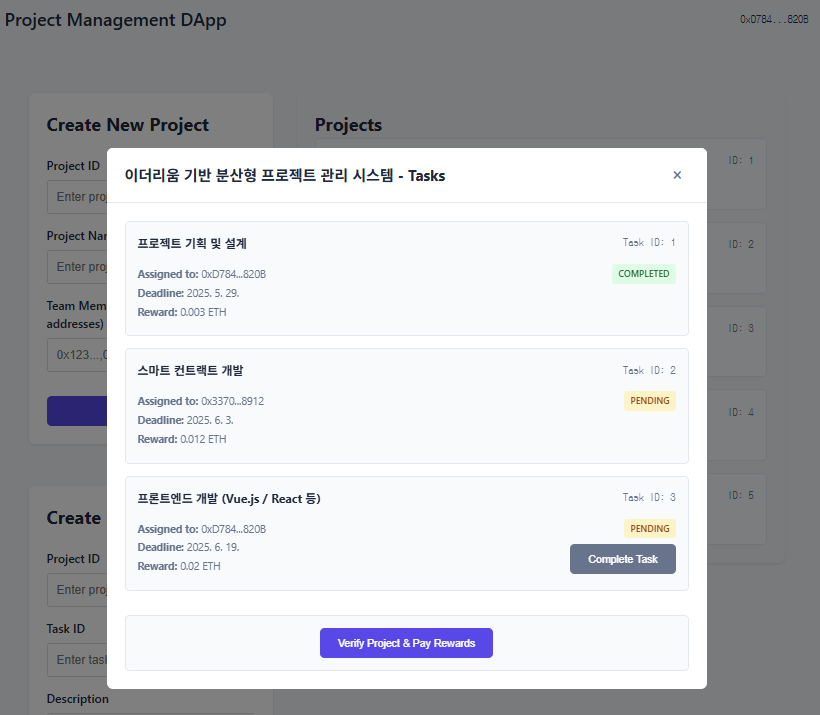
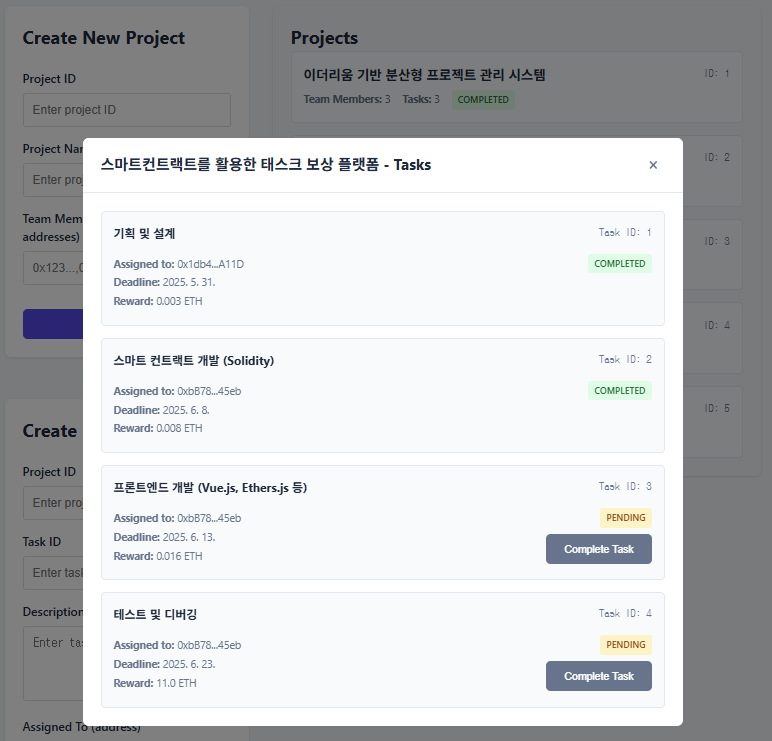
fix: restrict admin-only buttons to admin users

diff --git a/src/components/TaskList.vue b/src/components/TaskList.vue
@@ -58,6 +58,7 @@ const isLoading = ref(true);
 const isCompleting = ref(false);
 const isVerifying = ref(false);
 const projectInfo = ref(null);
+const isAdmin = ref(false);
 
 const shortAddress = (addr) => {
   if (!addr) return '';
@@ -69,42 +70,42 @@ const formatDate = (timestamp) => {
 };
 
 const formatEther = (wei) => {
-  return ethers.utils.formatEther(wei);
+  try {
+    return ethers.utils.formatEther(wei || 0);
+  } catch (e) {
+    console.error("Error formatting ether value:", wei, e);
+    return 'N/A';
+  }
 };
 
-const canVerifyProject = computed(async () => {
-  if (!tasks.value.length) return false;
-  
-  try {
-    const provider = new ethers.providers.Web3Provider(window.ethereum);
-    const signer = provider.getSigner();
-    const contract = new ethers.Contract(CONTRACT_ADDRESS, CONTRACT_ABI, signer);
-    const address = await signer.getAddress();
-    
-    const admin = await contract.admin();
-    const isAdmin = admin.toLowerCase() === address.toLowerCase();
-    
-    // Get project info to check completion status
-    const projectInfo = await contract.getProjectInfo(props.projectId);
-    if (projectInfo.isCompleted) {
-      return false;  // Don't show verify button if project is already completed
-    }
-    
-    return isAdmin && tasks.value.every(task => task.completed);
-  } catch (error) {
-    console.error('Error checking verify permission:', error);
-    return false;
-  }
+const canVerifyProject = computed(() => {
+  const result = isAdmin.value 
+         && tasks.value.every(task => task.completed) 
+         && (projectInfo.value ? !projectInfo.value.isCompleted : false);
+         
+  console.log('canVerifyProject Computed:', {
+    isAdmin: isAdmin.value,
+    allTasksCompleted: tasks.value.every(task => task.completed),
+    projectNotCompleted: projectInfo.value ? !projectInfo.value.isCompleted : 'Project Info not loaded',
+    finalResult: result
+  });
+
+  return result;
 });
 
 const loadProjectInfo = async (contract) => {
-  const info = await contract.getProjectInfo(props.projectId);
-  projectInfo.value = {
-    name: info.name,
-    teamSize: info.teamSize.toNumber(),
-    taskCount: info.taskCount.toNumber(),
-    isCompleted: info.isCompleted
-  };
+  try {
+    const info = await contract.getProjectInfo(props.projectId);
+    projectInfo.value = {
+      name: info.name,
+      teamSize: info.teamSize.toNumber(),
+      taskCount: info.taskCount.toNumber(),
+      isCompleted: info.isCompleted
+    };
+  } catch (error) {
+     console.error('Error loading project info:', error);
+     projectInfo.value = null;
+  }
 };
 
 const loadTasks = async () => {
@@ -119,21 +120,19 @@ const loadTasks = async () => {
     const signer = provider.getSigner();
     const address = await signer.getAddress();
 
-    // Load project info and team members
-    const [projectInfo, teamMembers] = await Promise.all([
-      contract.getProjectInfo(props.projectId),
-      contract.getTeamMembers(props.projectId)
-    ]);
+    const adminAddress = await contract.admin();
+    isAdmin.value = adminAddress.toLowerCase() === address.toLowerCase();
+    console.log('Admin address:', adminAddress, 'Current address:', address, 'Is Admin:', isAdmin.value);
+
+    const teamMembers = await contract.getTeamMembers(props.projectId);
 
     console.log('Current address:', address);
     console.log('Team members:', teamMembers);
     const isProjectMember = teamMembers.some(member => member.toLowerCase() === address.toLowerCase());
     console.log('Is project member:', isProjectMember);
 
-    // Get task IDs for the project
     const taskIds = await contract.getTaskIds(props.projectId);
     
-    // Load tasks
     const taskPromises = taskIds.map(async (taskId) => {
       const task = await contract.getTask(props.projectId, taskId);
       let status = 'PENDING';
@@ -147,7 +146,11 @@ const loadTasks = async () => {
       console.log('Task', taskId.toString(), {
         assignedTo: task.assignedTo,
         currentAddress: address,
-        isAssignedTo: isAssignedToMe
+        isAssignedToMe,
+        taskStatus: {
+          completed: task.completed,
+          verified: task.verified
+        }
       });
       
       return {
@@ -165,6 +168,9 @@ const loadTasks = async () => {
     });
 
     tasks.value = await Promise.all(taskPromises);
+    
+    await loadProjectInfo(contract);
+
   } catch (error) {
     console.error('Error loading tasks:', error);
     alert('Failed to load tasks. Please try again.');
@@ -181,7 +187,6 @@ const completeTask = async (task) => {
     const contract = new ethers.Contract(CONTRACT_ADDRESS, CONTRACT_ABI, signer);
     const address = await signer.getAddress();
 
-    // Check if current user is assigned to this task
     if (task.assignedTo.toLowerCase() !== address.toLowerCase()) {
       alert('Only the assigned user can complete this task.');
       return;
@@ -205,20 +210,17 @@ const verifyProject = async () => {
     const signer = provider.getSigner();
     const contract = new ethers.Contract(CONTRACT_ADDRESS, CONTRACT_ABI, signer);
 
-    // Get current account
     const accounts = await window.ethereum.request({ method: 'eth_requestAccounts' });
     const currentAccount = accounts[0];
 
-    // Check if current account is admin
     const admin = await contract.admin();
     if (admin.toLowerCase() !== currentAccount.toLowerCase()) {
       alert('Only admin can verify the project.');
       return;
     }
 
-    // Calculate total reward
     const totalReward = tasks.value.reduce((sum, task) => {
-      if (!task.verified) {  // Only include unverified tasks
+      if (!task.verified) {
         const reward = ethers.BigNumber.from(task.reward.toString());
         return sum.add(reward);
       }
@@ -240,8 +242,17 @@ const verifyProject = async () => {
   } catch (error) {
     console.error('Error verifying project:', error);
     if (error.code === -32603) {
-      alert('Failed to verify project. Make sure you have enough ETH to pay rewards.');
-    } else {
+       let errorMessage = 'Failed to verify project.';
+       if (error.data && error.data.message) {
+           errorMessage += ' Error: ' + error.data.message;
+       } else if (error.message) {
+           errorMessage += ' Error: ' + error.message;
+       }
+        alert(errorMessage + ' Make sure you have enough ETH and are the admin.');
+    } else if (error.message.includes('Only admin can call this function')){
+        alert('Only admin can verify the project.');
+    }
+     else {
       alert('Failed to verify project. Please try again.');
     }
   } finally {
@@ -249,11 +260,17 @@ const verifyProject = async () => {
   }
 };
 
-watch(() => props.projectId, () => {
-  loadTasks();
-});
+watch(() => props.projectId, (newProjectId, oldProjectId) => {
+  if (newProjectId && newProjectId !== oldProjectId) {
+      loadTasks();
+  }
+}, { immediate: true });
 
 onMounted(loadTasks);
+
+defineExpose({
+    loadTasks
+});
 </script>
 
 <style scoped>
